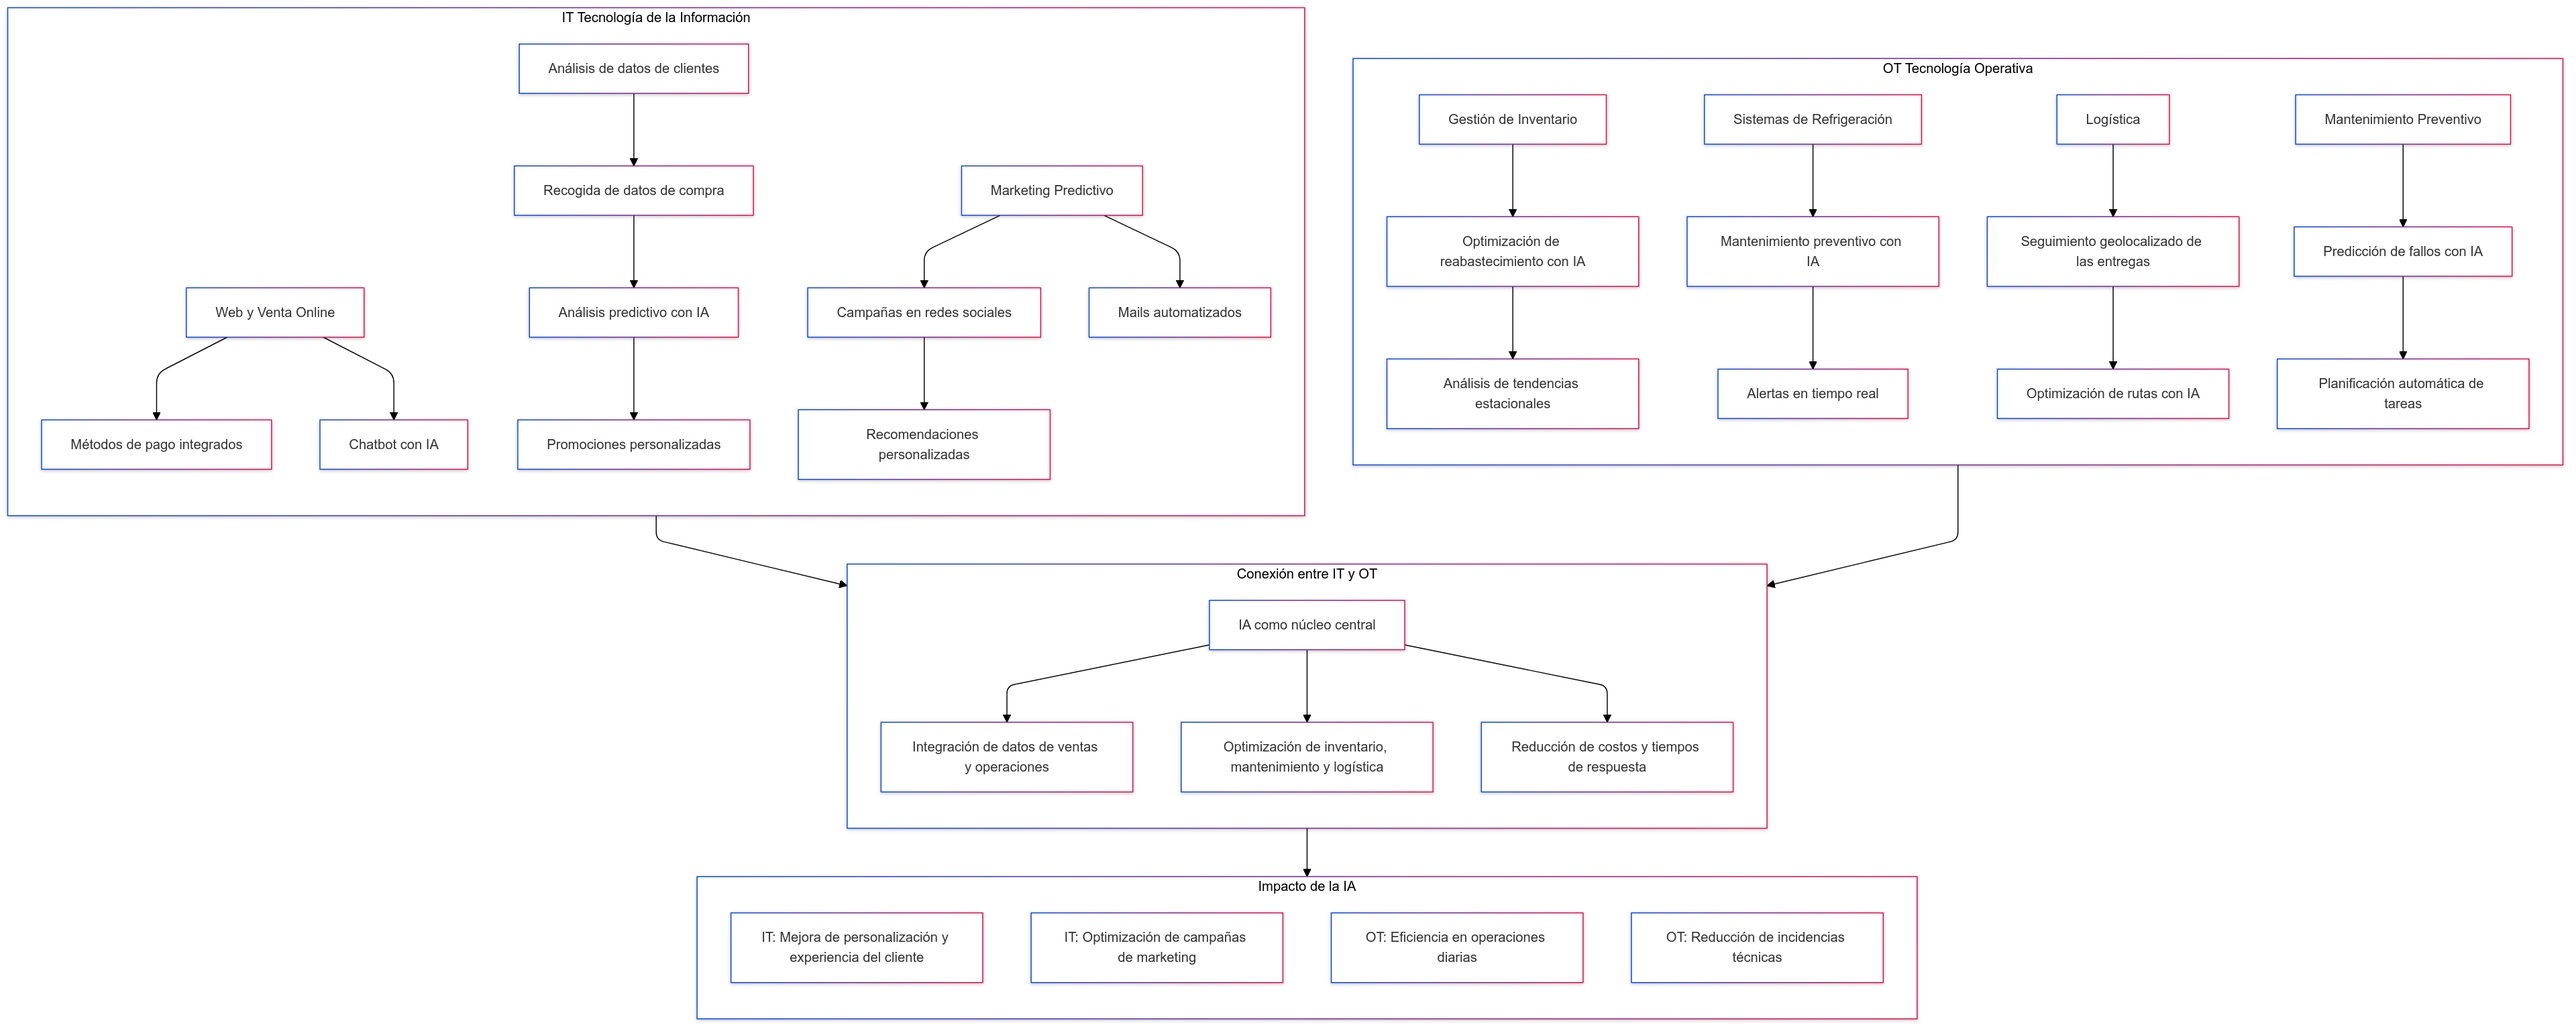
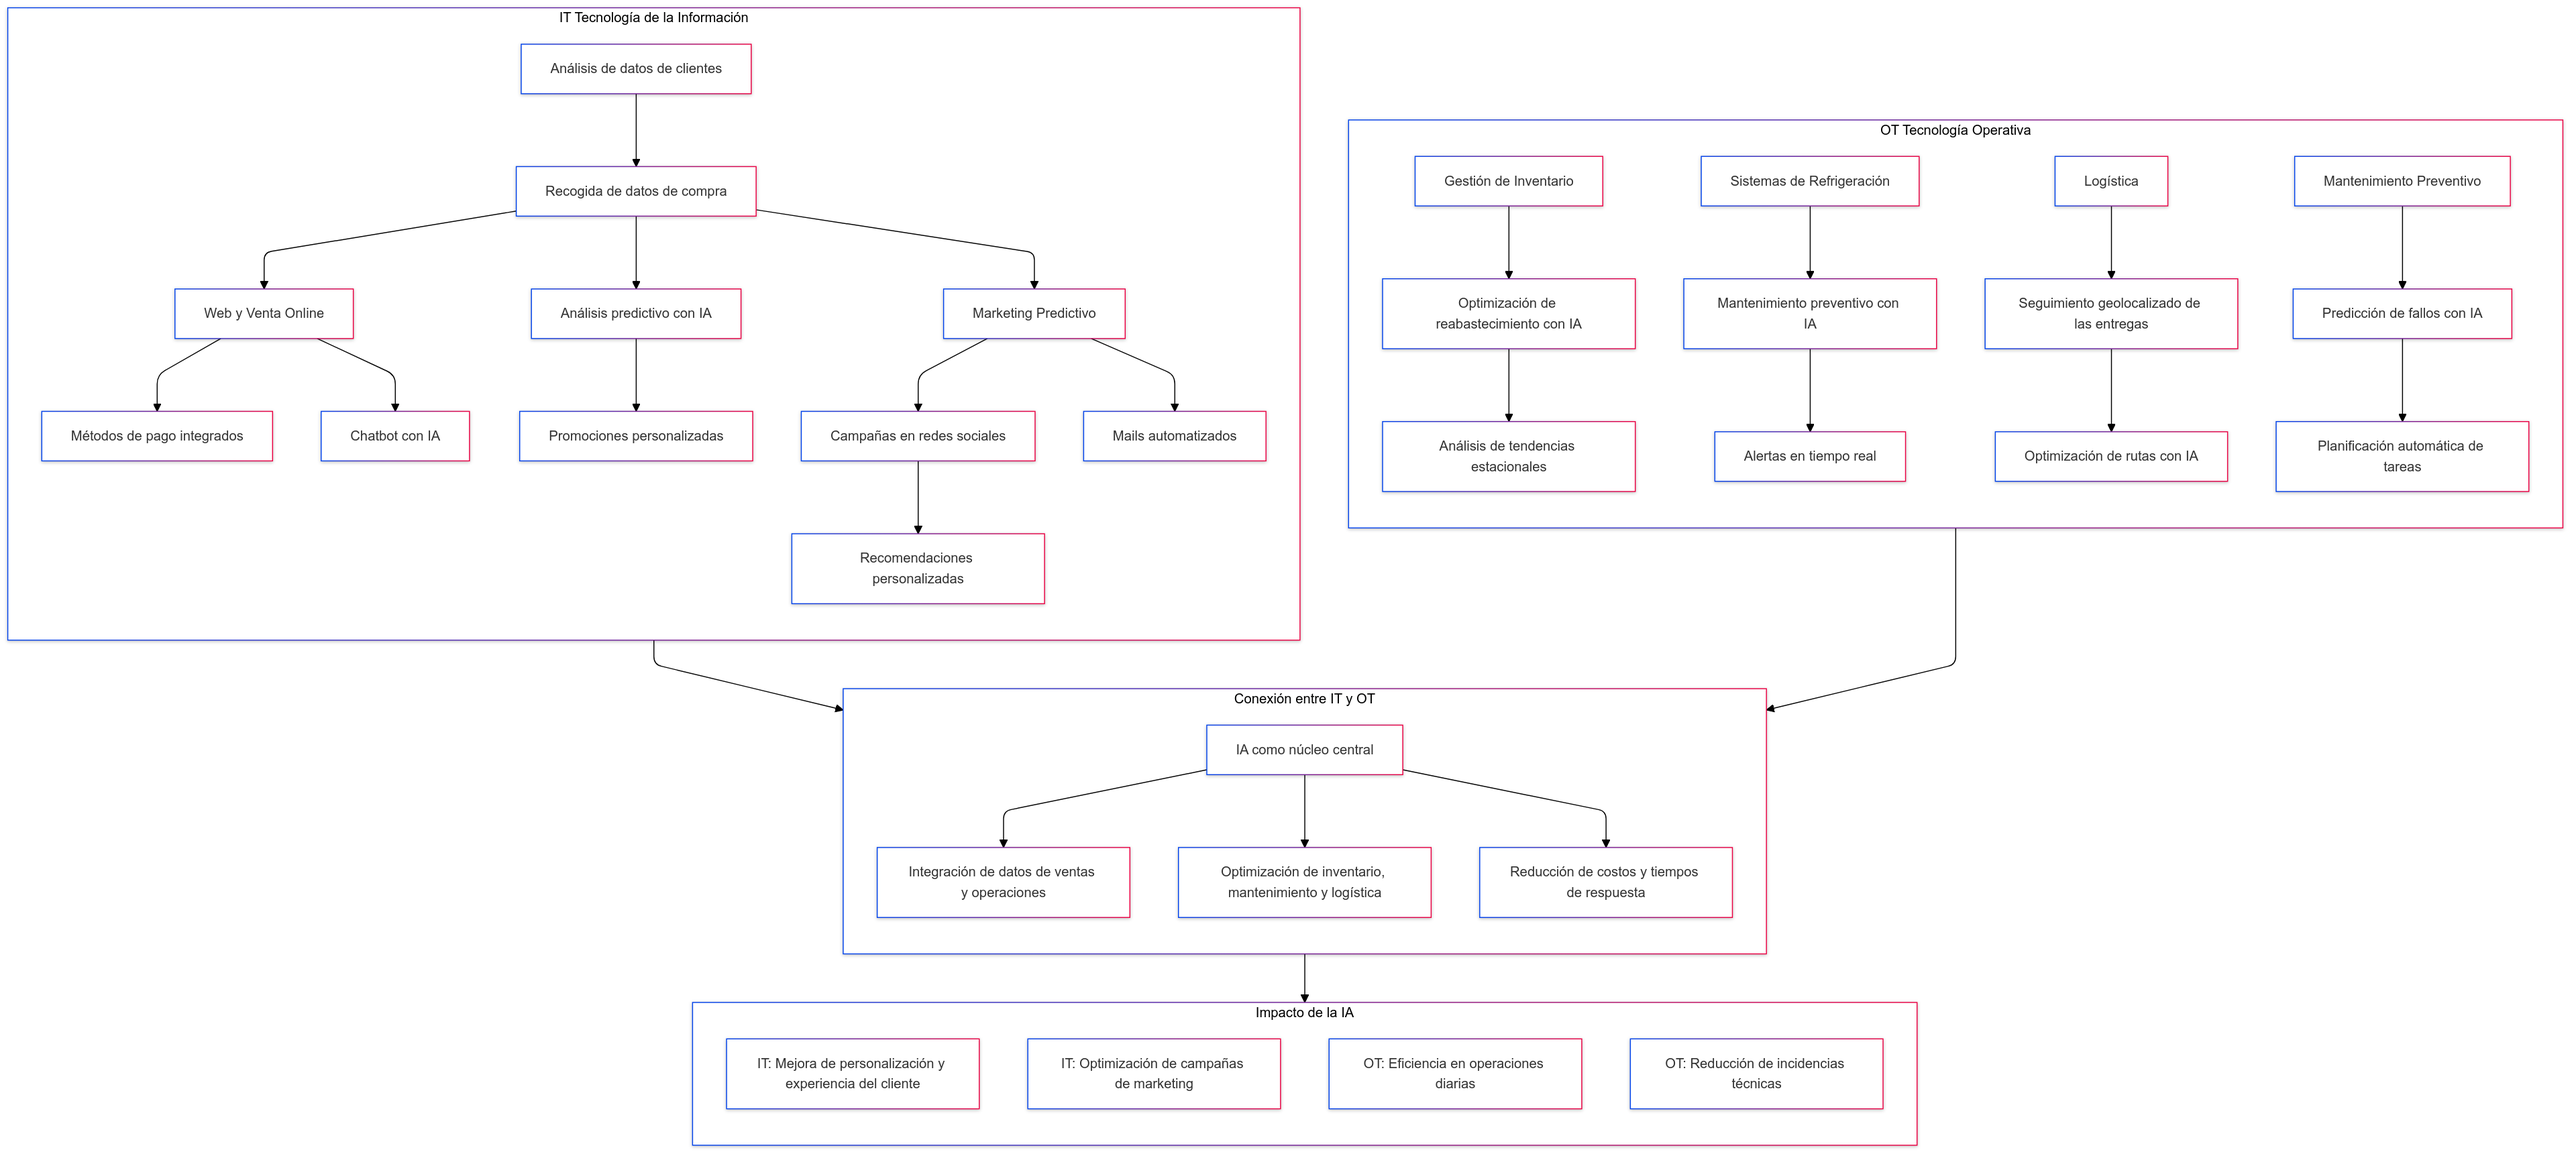
Cambios finales

diff --git a/Propuesta_de_transformacion_digital.md b/Propuesta_de_transformacion_digital.md
@@ -1,4 +1,4 @@
-# **Plan de transformacion digital para Alimnentacion Juani**
+# **Plan de transformacion digital para Alimentación Juani**
 
 ## 1. Objetivo de la transformacion digital
 
@@ -13,7 +13,8 @@
 
 ## 3. **Estrategias de digitalizacion**
 
-### Estrategia 1: Creacion de una tienda Online
+### Estrategias IT
+#### **Creacion de una tienda Online**
 
 - **Implementacion:**
     - Desarrollo de una página web con diseño intuitivo y optimización para móviles.
@@ -24,17 +25,10 @@
 - **Beneficios:**
     - Aumento de la visibilidad del negocio
     - Facilitar la compra a clientes que prefieran el e-commerce
-    
-### **Estrategia 2: Sistema de logística inteligente**
-- **Implementación**:
-  - Contratación de un servicio de reparto que gestione los pedidos de la tienda online.
-  - Seguimiento con GPS para que los clientes puedan rastrear sus pedidos.
-  - Notificaciones automáticas a través de Gmail para informar sobre el estado de su pedido.
-- **Beneficios**:
-  - Mejora de la experiencia del cliente con tiempos de entrega claros.
-  - Reducción del tiempo y esfuerzo del personal en la tienda.
-    
-### **Estrategia 3: Análisis de datos para toma de decisiones**
+
+---
+
+#### **Análisis de datos para toma de decisiones** 
 - **Recogida de datos**:
   - Información de ventas en tienda física y online.
   - Registro de preferencias de compra de los clientes (frecuencia, productos más comprados).
@@ -44,7 +38,9 @@
   - Identificar patrones para crear promociones específicas y personalizadas.
   - Mejorar la experiencia del cliente a través de recomendaciones basadas en compras previas.
 
-### **Estrategia 4: Gestión de inventarios con IA**
+---
+
+#### **Gestión de inventarios con IA**
 - **Implementación**:
   - Software de inteligencia artificial que analice los datos de compras y planifique automáticamente el reabastecimiento.
   - Considerar factores como la época del año y promociones.
@@ -53,16 +49,9 @@
   - Ahorro de tiempo al automatizar tareas repetitivas.
   - Mejor respuesta ante cambios en la demanda.
 
-### **Estrategia 5: Plan de mantenimiento preventivo con IA y Big Data**
-- **Implementación**:
-  - Uso de herramientas de IA y Big Data para monitorear el estado de los equipos de refrigeración, almacenamiento y sistemas digitales.
-  - Análisis de datos históricos y patrones de uso para predecir fallos antes de que ocurran.
-- **Beneficios**:
-  - Reducción de costos asociados con reparaciones inesperadas.
-  - Minimización del tiempo de inactividad en operaciones críticas.
-  - Extensión de la vida útil de los equipos mediante mantenimiento proactivo.
+---
 
-### **Estrategia 6: Marketing Digital**
+#### **Marketing Digital**
 - **Implementación**:
   - Campañas en redes sociales con ofertas personalizadas.
   - Email marketing para fidelización de clientes.
@@ -72,31 +61,41 @@
   - Aumentar la frecuencia de compra de los clientes actuales.
   - Crear una comunidad en torno a la marca.
 
-## **4. Optimización de procesos con IA**
+---
 
-### **Optimización de procesos de planta (OT - Tecnología Operativa)**
+### Estrategias OT
+#### **Plan de mantenimiento preventivo con IA y Big Data**
+- **Implementación**:
+  - Uso de herramientas de IA y Big Data para monitorear el estado de los equipos de refrigeración, almacenamiento y sistemas digitales.
+  - Análisis de datos históricos y patrones de uso para predecir fallos antes de que ocurran.
+- **Beneficios**:
+  - Reducción de costos asociados con reparaciones inesperadas.
+  - Minimización del tiempo de inactividad en operaciones críticas.
+  - Extensión de la vida útil de los equipos mediante mantenimiento proactivo.
 
-1. **Gestión de inventarios basada en datos**:
-   - La IA analiza datos históricos y en tiempo real para preveer demandas futuras, minimizando desperdicios y asegurando la disponibilidad de productos clave.
+---
 
-2. **Mantenimiento preventivo con IA**:
-   - Monitoreo de equipos críticos con IA para anticipar fallos antes de que ocurran, reduciendo interrupciones y costos de reparación.
+### Estrategias combinadas IT y OT
+#### **Sistema de logística inteligente**
+- **Implementación**:
+  - Contratación de un servicio de reparto que gestione los pedidos de la tienda online. (OT)
+  - Seguimiento con GPS para que los clientes puedan rastrear sus pedidos. (IT)
+  - Posibilidad de activar en la web notificaciones automáticas a través de Gmail para informar sobre el estado de su pedido. (IT)
+- **Beneficios**:
+  - Mejora de la experiencia del cliente con tiempos de entrega claros.
+  - Reducción del tiempo y esfuerzo del personal en la tienda.
 
-3. **Logística inteligente**:
-   - Seguimiento de rutas de entrega mediante sistemas de seguimiento GPS, mejorando la eficiencia y reduciendo los tiempos de entrega a la hora de entregar los productos a los clientes
+---
+    
 
-### **Optimización de procesos de negocio (IT - Tecnología de la Información)**
 
-1. **Análisis predictivo de ventas y promociones**:
-   - Utiliza IA para identificar patrones de consumo y diseñar promociones personalizadas, mejorando la experiencia del cliente.
 
-2. **Atención al cliente automatizada**:
-   - Chatbots con IA resuelven consultas frecuentes, ofreciendo soporte 24/7 y aumentando las ventas online.
 
-3. **Marketing digital basado en datos**:
-   - Estrategias de marketing personalizadas basadas en el análisis de datos, incrementando la fidelidad de los clientes.
 
-## **5. Cronograma de Implementación**
+
+
+
+## **4. Cronograma de Implementación**
 
 | **Fase**            | **Duración** | **Actividades**                                    | **Consecuencia**                  |
 |----------------------|--------------|----------------------------------------------------|-------------------------------------------|
@@ -109,7 +108,7 @@
 
 ---
 
-## **6. Beneficios de la Transformación Digital**
+## **5. Beneficios de la Transformación Digital**
 - **Para los clientes**:
   - Experiencia de compra más cómoda y rápida.
   - Promociones y ofertas personalizadas.
@@ -120,7 +119,7 @@
   - Decisiones estratégicas basadas en datos reales.
   - Reducción de fallos operativos mediante mantenimiento preventivo.
 
-## **7. Impacto en el sector**
+## **6. Impacto en el sector**
 
 1. **Innovación en el modelo de negocio**:
    - Alimentación Juani se posiciona como un referente en digitalización para pequeños comercios, demostrando cómo adaptarse a los cambios tecnológicos.

diff --git a/Listados_de_tecnologias.md b/Listados_de_tecnologias.md
@@ -7,26 +7,26 @@
 Permite llevar un control mas claro del inventario, registrando entradas y salidas de productos en tiempo real, en la cual obtiene de beneficio evitar el sobrestock o desasbastecimiento optimizando asi el almacenamiento.
 
     -   **Sistemas de Mantenimiento Predictivo**: 
-Monitorean el estado de los equipos y maquinarias en tiempo real utilizando sensores y análisis avanzados de datos, detectando patrones que indican posibles fallos antes de que ocurran,permitiendo planificar mantenimientos preventivos de manera más eficiente.
+Monitorean el estado de los equipos y maquinarias en tiempo real utilizando sensores y análisis avanzados de datos, detectando patrones que indican posibles fallos antes de que ocurran,permitiendo planificar mantenimientos preventivos de manera más eficiente, de esta manera se trata de evitar fallos en los equipos que puedan causar perdidas en producción o desechos no deseados.
     
 
     - **Automatización de almacenes**: 
-Consiste en el uso de tecnologías como cintas transportadoras automatizadas y sistemas de clasificación para agilizar las operaciones de almacenamiento, optimizando la reubicación de productos, la preparación de pedidos y la carga/descarga.
+Consiste en el uso de tecnologías como cintas transportadoras automatizadas y sistemas de clasificación para agilizar las operaciones de almacenamiento, optimizando la reubicación de productos, la preparación de pedidos y la carga/descarga, de esta forma conseguimos reducir los tiempos para que tenga una mayor eficiencia.
 
 
     - **IoT para logística**:
-El Internet de las Cosas (IoT) conecta dispositivos como sensores y etiquetas inteligentes para rastrear productos y optimizar la cadena de suministro, permitiendo obtener datos en tiempo real sobre la ubicación, el estado y el recorrido de los productos.
+El Internet de las Cosas (IoT) conecta dispositivos como sensores y etiquetas inteligentes para rastrear productos y optimizar la cadena de suministro, permitiendo obtener datos en tiempo real sobre la ubicación, el estado y el recorrido de los productos, evitando el desorden y la pérdida de los mismos.
 
 - # De negocio: 
     #### La digitalización de negocio es el uso de tecnologías digitales para transformar procesos, modelos y estrategias empresariales, mejorando la eficiencia, la experiencia del cliente y la competitividad en el mercado.
     -   **E-Commerce Local**:
-    Una plataforma de venta online para que los clientes puedan realizar pedidos desde casa.
+    Una plataforma de venta online para que los clientes puedan realizar pedidos desde casa, de esta forma se logra que el cliente pueda acceder a los productos desde la comodidad de su casa, así ahorrando su tiempo.
 
     - **Redes Sociales Y marketing Digital**:
-    Uso de plataformas como Instagram o Facebook para promocionar los productos y ofertas diarias.
+    Uso de plataformas como Instagram o Facebook para promocionar los productos y ofertas diarias, consiguiendo que esté alcance del cliente desde cualquier lugar.
 
     - **Análisis de Datos De ventas**:
-    Permite analizar patrones de ventas y ajustar el inventario según los productos más demandados.
+    Permite analizar patrones de ventas y ajustar el inventario según los productos más demandados, con la finalidad de estudiar el mercado y tener conocimiento de los productos más populares entre los clientes.
 
     - **Customer Relationship Management**:
     Permite registrar información de los clientes y personalizar promociones o descuentos, lo cual se obtiene de beneficio fidelizar clientes y aumentar las ventas.

diff --git a/Ficha_de_la_empresa.md b/Ficha_de_la_empresa.md
@@ -8,7 +8,7 @@
 
 ## Descripción
 
-**Somos un pequeño almacén de barrio especializado en productos de alimentación. Ofrecemos alimentos frescos, productos básicos y artículos de despensa para satisfacer las necesidades diarias de nuestros vecinos. Nuestro compromiso es proporcionar un servicio cercano y de confianza, apoyando a productores locales y garantizando la calidad en cada uno de nuestros productos.** 
+**Este pequeño almacén de barrio está especializado en productos de alimentación. Ofrece alimentos frescos, productos básicos y artículos de despensa para satisfacer las necesidades diarias de los vecinos de la zona. El compromiso es proporcionar un servicio cercano y de confianza, apoyando a productores locales y garantizando la calidad en cada uno de los productos.** 
 
 ---
 
@@ -54,16 +54,16 @@
 ## Información Adicional
 
 - **Certificaciones:** 
-	- **Certificación de Manipulación de Alimentos:** Garantizamos que todo nuestro personal cumple con las normativas de seguridad alimentaria y ha recibido formación en manipulación higiénica.
+	- **Certificación de Manipulación de Alimentos:** Garantiza que todo el personal cumple con las normativas de seguridad alimentaria y ha recibido formación en manipulación higiénica.
 	- **Sello de Calidad Local:** Reconocidos como promotores de productos frescos de origen local.
 - **Responsabilidad Social Empresarial:** 
-	- **Apoyo a Productores Locales:** Colaboramos activamente con agricultores y proveedores locales para fomentar el desarrollo de la economía de nuestra comunidad.
-	- **Donaciones a Bancos de Alimentos:** Contribuimos regularmente con productos no perecederos a organizaciones benéficas locales.
+	- **Apoyo a Productores Locales:** Colabora activamente con agricultores y proveedores locales para fomentar el desarrollo de la economía de la comunidad.
+	- **Donaciones a Bancos de Alimentos:** Contribuyen regularmente con productos no perecederos a organizaciones benéficas locales.
 	- 
 - **Sostenibilidad:** 
-	- **Reducción de Plásticos:** Fomentamos el uso de bolsas reutilizables y ofrecemos alternativas biodegradables en el empaque de nuestros productos.
-	-   **Gestión de Residuos:** Implementamos un sistema de reciclaje efectivo en nuestro almacén.
-	- **Productos Eco-Friendly:** Contamos con una selección de productos ecológicos y sostenibles, promoviendo prácticas responsables con el medio ambiente.
+	- **Reducción de Plásticos:** Fomenta el uso de bolsas reutilizables y ofrecemos alternativas biodegradables en el empaque de sus productos.
+	-   **Gestión de Residuos:** Implementa un sistema de reciclaje efectivo en el almacén.
+	- **Productos Eco-Friendly:** Cuenta con una selección de productos ecológicos y sostenibles, promoviendo prácticas responsables con el medio ambiente.
 
 ---
 

diff --git a/Reflexion_final.md b/Reflexion_final.md
@@ -1,11 +1,11 @@
 # Reflexión final:
 
-- La Inteligencia Artificial (IA) se esta convirtiendo en un pilar fundamental en la modernizacion de empresas como la ficticia que hemos creado (Alimentacion Juani) ofreciendo herramientas para optimizar multiples procesos y mejorar la experiencia de los clientes.
+- La Inteligencia Artificial (IA) se esta convirtiendo en un pilar fundamental en la modernizacion de grandes, medianas y pequeñas empresas ofreciendo herramientas para optimizar multiples procesos y mejorar la experiencia de los clientes.
 
 - En el presente la IA permite tonar decisiones basadas en datos, anticipar demandas de productos, reducir desperdicios y ofrecer servicios personalizados.
 
 - En el futuro su integracion sera cada vez mas importante impulsando innovaciones como la automatizacion total de las operaciones, un mantenimiento predictivo mas avanzado y estrategias de mercado adaptativas para que las empresas puedan adaptarse a cualquier tipo de entorno.
 
-- Respecto a marketing e imagen, el hecho de automatizar procesos y hacer uso de tecnologías como la IA nos brinda una cantidad de ventajas en comparación con las empresas convencionales que, sin ninguna duda, marca la diferencia notablemente.
+- Respecto a marketing y la imagen de la empresa, el hecho de automatizar procesos y hacer uso de tecnologías como la IA nos brinda una cantidad de ventajas en comparación con las empresas convencionales que, sin ninguna duda, marca la diferencia notablemente.
 
 - En el sector de la alimentaciones la IA no solo marcara la diferencia en la rentabilidad sino tambien contribuira a la sostenibilidad y a la satisfacion de los consumidores transformando a futuro la manera en la que los negocios locales operan.
